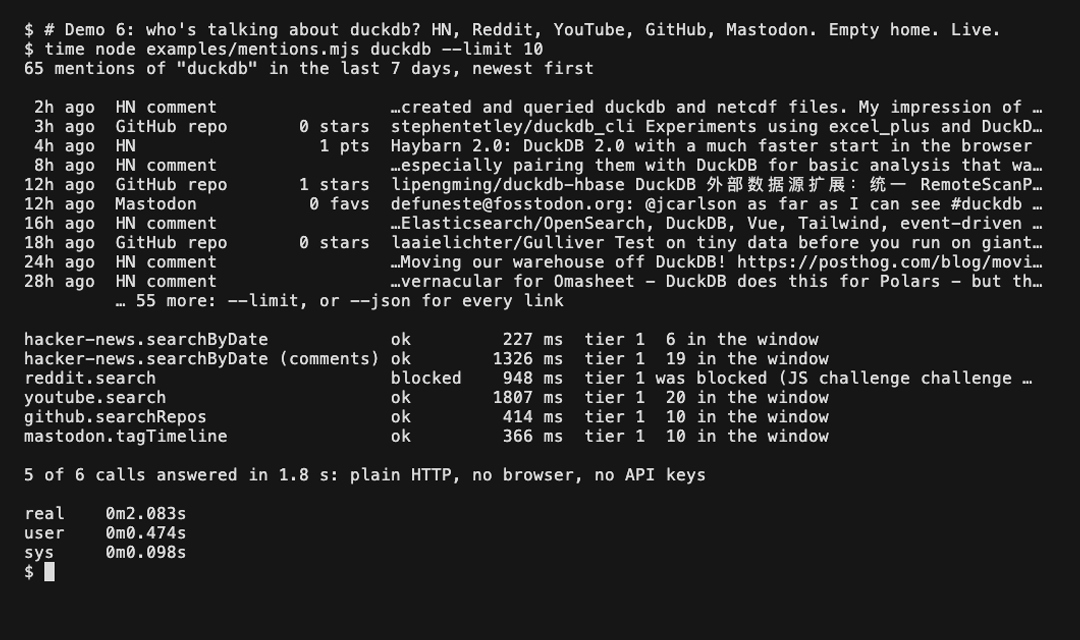
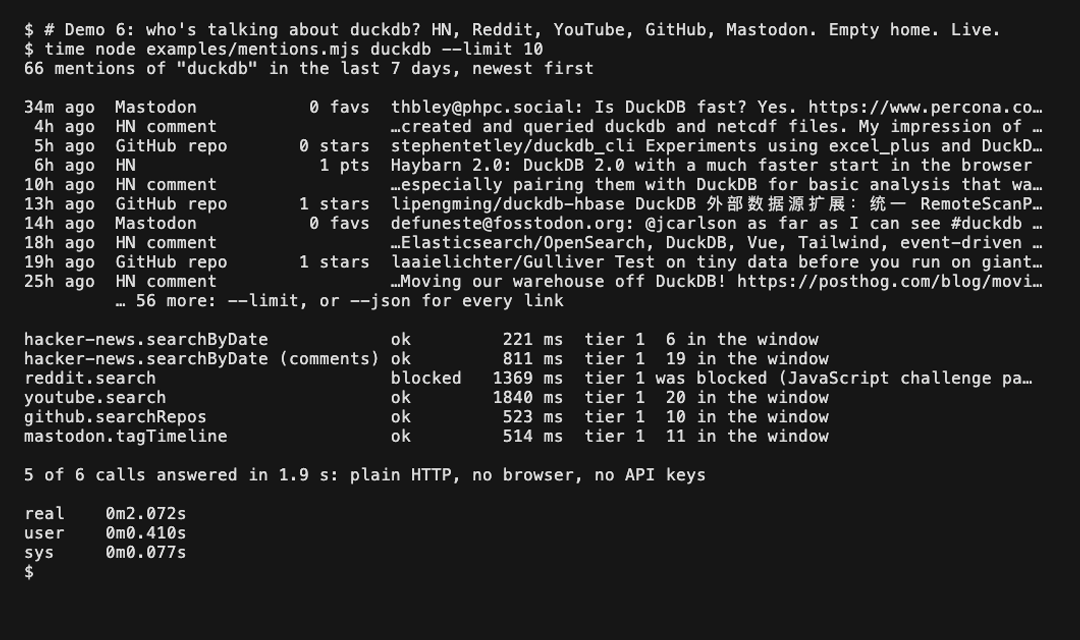
Bring the README in line with what merged, call shutdown() in the mentions example, and re-record it

diff --git a/src/classify.ts b/src/classify.ts
@@ -82,7 +82,7 @@ const CHALLENGES: [string, RegExp | undefined, RegExp?][] = [
   ["Anubis", /<script id="anubis-main"|Making sure you(?:'|&#39;)re not a bot!/i],
   ["Kasada", undefined, /\/[0-9a-f]{8}-[0-9a-f-]{27}\/[0-9a-f]{8}-[0-9a-f-]{27}\/ips\.js/i],
   // a proof-of-work page that solves itself and resubmits (Reddit)
-  ["JS challenge", /name=["']?js_challenge|[?&]js_challenge=1/i],
+  ["JavaScript", /name=["']?js_challenge|[?&]js_challenge=1/i],
   ["reCAPTCHA", /Prove your humanity/i],
 ];
 // A CAPTCHA widget is the challenge on a bare page, and a guard on the login when it sits in a sign-in form.

diff --git a/README.md b/README.md
@@ -30,10 +30,10 @@ agent gets JSON from one request.
 npx -y api-anything setup
 ```
 
-Setup connects the MCP server and the skill to the agents it finds (Claude Code, Codex, Cursor,
-Claude Desktop, Hermes, Gemini CLI, VS Code), asking before each one; `--agents` names them instead.
-Then it asks one question: help build the shared catalog? `setup --local-only` keeps everything on
-this machine. Node 22.13 or newer; no account, no API key. Or tell your coding agent: *Set up API
+Setup lists the agents it finds (Claude Code, Codex, Cursor, Claude Desktop, Gemini CLI, VS Code)
+and asks which to connect the MCP server and the skill to; `--agents` names them instead, and the
+always-on Hermes gateway is added only by name. Then it asks whether to help build the shared
+catalog. `setup --local-only` keeps everything on this machine. Node 22.13 or newer; no account, no API key. Or tell your coding agent: *Set up API
 Anything for me: https://github.com/goodnight000/api-anything/blob/main/INSTALL.md*.
 [What setup changes, and every client](docs/QUICKSTART.md)
 
@@ -60,7 +60,7 @@ different APIs with their own keys, OAuth apps and client libraries.
 [`examples/mentions.mjs`](examples/mentions.mjs) asks Hacker News, Reddit, YouTube, GitHub and
 Mastodon at once, from an empty home, with no account:
 
-[![Demo: 65 mentions of duckdb from Hacker News, YouTube, GitHub and Mastodon in 1.8 s, with Reddit reported as blocked](docs/demos/mentions.gif)](docs/demos/README.md#6-whos-talking-about-a-project)
+[![Demo: 66 mentions of duckdb from Hacker News, YouTube, GitHub and Mastodon in 1.9 s, with Reddit reported as blocked](docs/demos/mentions.gif)](docs/demos/README.md#6-whos-talking-about-a-project)
 
 The core of it is six reads in parallel, each capped at plain HTTP:
 
@@ -132,18 +132,22 @@ site, one model and a few runs. [Method, raw numbers and limits](bench/README.md
 </picture>
 
 - **MCP over stdio**, for any agent: `find_sites`, `call_operation`, `learn_site` and
-  [the other tools](docs/QUICKSTART.md#the-tools-an-agent-gets). Each tool declares a typed output
-  schema. [Frameworks](docs/INTEGRATIONS.md): Vercel AI SDK, LangChain.js, OpenAI Agents SDK.
+  [the other tools](docs/QUICKSTART.md#the-tools-an-agent-gets), which declare output schemas for
+  clients that check results. [Frameworks](docs/INTEGRATIONS.md): Vercel AI SDK, LangChain.js, OpenAI Agents SDK.
 - **HTTP**: `api-anything serve` answers REST, publishes an OpenAPI document at `/openapi.json`,
   and serves MCP at `/mcp`. It listens on loopback only and needs a token. [docs/SERVE.md](docs/SERVE.md)
-- **Python**: `pip install api-anything` gives a `Client`, tools for agent frameworks, and typed
-  code generated from an operation's schema. [docs/PYTHON.md](docs/PYTHON.md)
+- **Python**: `pip install "git+https://github.com/goodnight000/api-anything#subdirectory=python"`
+  gives a `Client` that starts the server for you, tools for agent frameworks, and typed code
+  generated from an operation's schema. [docs/PYTHON.md](docs/PYTHON.md)
 - **TypeScript**: `import { call } from "api-anything"`, or [`api-anything/host`](docs/HOST.md) for
   an agent host that only calls installed operations. [CLI and library at a glance](docs/REFERENCE.md#the-cli-and-the-library-at-a-glance)
-- **Watching**: `--changes` returns only what was added since the last call, and `--max-age`
-  answers from a recent result instead of asking the site again.
+- **Watching**: `--changes` reports what was added, removed or changed since the last call (name a
+  watcher with `--watch`), `--max-age` answers from a recent result instead of asking the site
+  again, and a site's request budget keeps a cron job at human volume.
+  [`examples/watch.mjs`](examples/watch.mjs)
 - **No install**: the [catalog](https://api-anything-registry.forth-site.workers.dev) lets you try a
-  few public operations from its page.
+  few public operations (Wikipedia, Open Library, USGS earthquakes, NASA images) from their pages, or
+  with curl: `curl 'https://api-anything-registry.forth-site.workers.dev/v1/try/wikipedia/getSummary?title=SQLite'`.
 
 ## Teach it a new site
 

diff --git a/docs/demos/README.md b/docs/demos/README.md
@@ -198,7 +198,7 @@ says to check the site first. The list holds one "pay rent", not two.
 
 ## 6. Who's talking about a project
 
-[![Demo 6 still: mentions of duckdb from Hacker News, YouTube, GitHub and Mastodon, with Reddit blocked](mentions.png)](mentions.gif)
+[![Demo 6 still: 66 mentions of duckdb from Hacker News, YouTube, GitHub and Mastodon, with Reddit blocked](mentions.png)](mentions.gif)
 
 [Recording](mentions.gif) (11 s) · [transcript](mentions.txt) · [tape](mentions.tape) ·
 [script](../../examples/mentions.mjs)
@@ -217,7 +217,8 @@ this week" filter, `github.searchRepos` for repositories created in the window, 
 Every call is capped at tier 1 (`maxTier: 1`), so nothing opens a browser. A site that would need one
 answers `blocked` with its reason, and the script prints that and keeps the others.
 
-In the recording, 5 of 6 calls answered in 1.8 s, and the whole process took 2.1 s. `reddit.search`
+In the recording (re-made later the same day, after `shutdown()` landed), 5 of 6 calls answered in
+1.9 s and found 66 mentions, and the whole process took 2.1 s. `reddit.search`
 answered `blocked`: Reddit served a JavaScript challenge to plain HTTP from this network, as it did
 on every run that day. YouTube's search answers with more header bytes than Node's `fetch` reads,
 so its call is sent once more without the browser's identity headers, still over plain HTTP. In one
